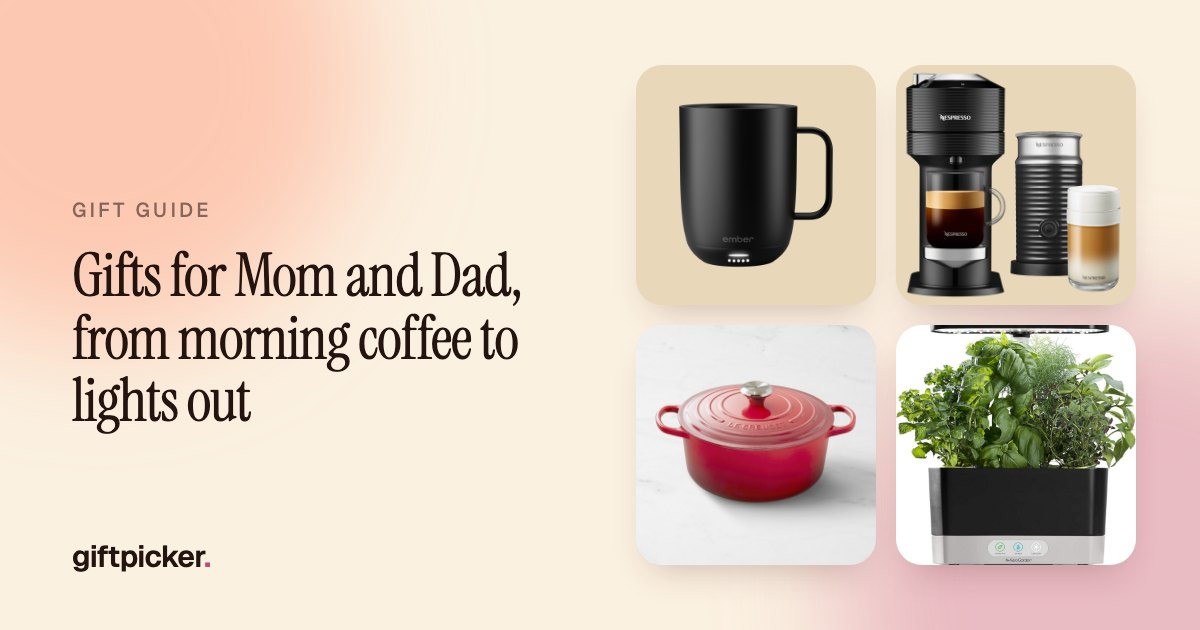
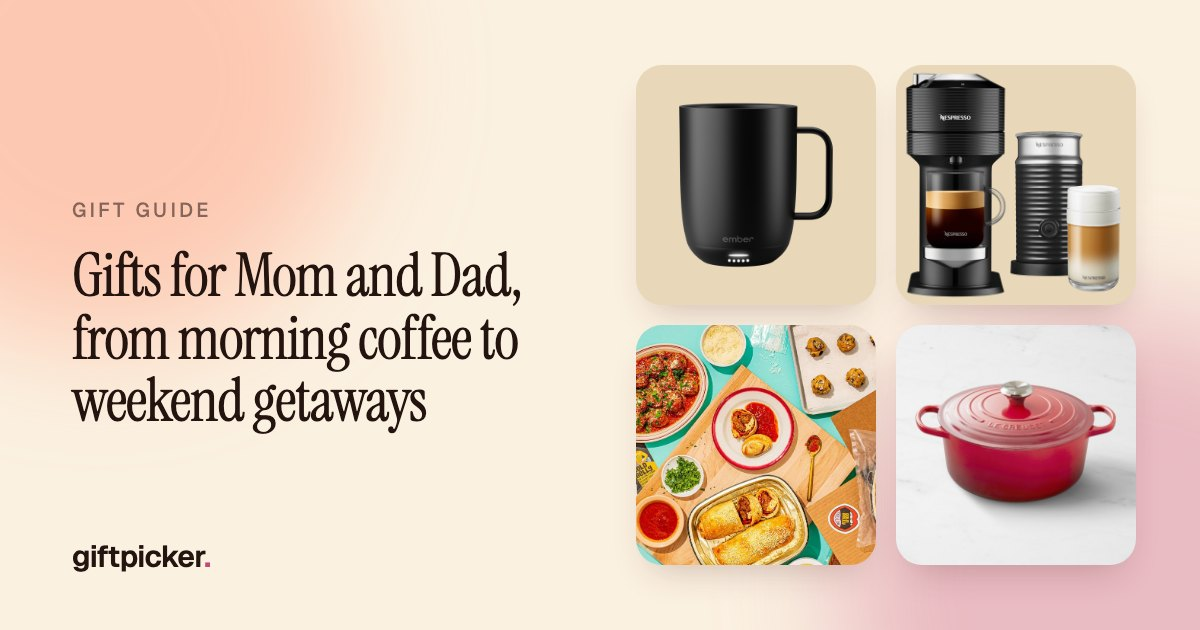
Blog round 5: Dalia's Roomba aside in the love-language post; the partner post links Melting Pot again, adds a Sur La Table cooking class, and moves the balloon ride into a new big-gesture section with Flytographer and CityPASS; the parents post adds the National Parks passport book and ResortPass t

Changed region(s): [[0.5242, 0.5127, 0.9558, 0.9048], [0.0617, 0.6032, 0.37, 0.6937]]

diff --git a/src/data/posts.ts b/src/data/posts.ts
@@ -225,7 +225,7 @@ const ALL_POSTS: Post[] = [
       },
       {
         kind: "p",
-        text: "A [Roomba robot vacuum](gift:r256) maps the house and empties its own bin for up to 60 days, which removes one weekly chore for good. An [Instacart gift card](gift:r768) covers groceries, delivery fees, and tips, and it pairs well with an offer to do the ordering yourself. If they are the one who keeps the household schedule in their head, the [Skylight Calendar 2](gift:r953) brings everyone's Google, Outlook, and Apple calendars onto one 15-inch touchscreen, with chore lists built in.",
+        text: "A [Roomba robot vacuum](gift:r256) maps the house and empties its own bin for up to 60 days, which removes one weekly chore for good (my mom still says this is the best gift we ever bought her). An [Instacart gift card](gift:r768) covers groceries, delivery fees, and tips, and it pairs well with an offer to do the ordering yourself. If they are the one who keeps the household schedule in their head, the [Skylight Calendar 2](gift:r953) brings everyone's Google, Outlook, and Apple calendars onto one 15-inch touchscreen, with chore lists built in.",
       },
       { kind: "gifts", ids: ["r256", "r768", "r953"] },
 
@@ -247,15 +247,15 @@ const ALL_POSTS: Post[] = [
       { kind: "h2", text: "For receiving gifts: something chosen with care" },
       {
         kind: "p",
-        text: "People who love receiving gifts value the evidence that you were paying attention, so the story behind an object matters as much as the object itself.",
+        text: "People who love receiving gifts value the evidence that you were paying attention. For them, the story of why you picked something is a big part of the present.",
       },
       {
         kind: "p",
-        text: "A [custom star map print](gift:r944) shows the sky over a chosen place and date, such as the night you met, along with a message of your own. The [solid walnut musical keepsake](gift:r706) is a palm-sized wind-up box that plays one tune you choose from hundreds. For someone who loves finding a package on the doorstep, a [Book of the Month membership](gift:r615) lets them pick a new hardcover or audiobook each month, so the gift keeps arriving long after the occasion.",
+        text: "A [custom star map print](gift:r944) shows the sky over a chosen place and date, such as the night you met, along with a message of your own. The [solid walnut musical keepsake](gift:r706) is a palm-sized wind-up box that plays one tune you choose from hundreds. For someone who loves finding a package on the doorstep, a [Book of the Month membership](gift:r615) lets them pick a new hardcover or audiobook each month, so a new one keeps arriving after the occasion is over.",
       },
       {
         kind: "p",
-        text: "Jewelry with a message works the same way: Little Words Project's [custom word bracelet](gift:r929) spells out any word or name you choose in handmade beads, so it carries something only the two of you understand. And if they love to browse, a gift card to their favorite store, like Sephora for the beauty lover, turns into a small shopping spree they get to plan themselves.",
+        text: "Jewelry can carry a message too. Little Words Project's [custom word bracelet](gift:r929) spells out any word or name you choose in handmade beads, so you can pick one that means something to the two of you. And if they love to browse, a gift card to their favorite store, like Sephora for the beauty lover, turns into a small shopping spree they get to plan themselves.",
       },
       { kind: "gifts", ids: ["r944", "r706", "r615", "r929"] },
 
@@ -284,7 +284,7 @@ const ALL_POSTS: Post[] = [
     updated: REVISED,
     intro: [
       "Ask some men what they want and the answer never changes: nothing, really. Sometimes that is modesty, and sometimes it is true in a narrow sense, because he already owns a wallet, a watch, and more gadgets than he uses. Either way, it leaves you guessing.",
-      "It helps to stop hunting for a missing object. The four approaches below work for a partner, a dad, a brother, or a friend, and each one gets around the problem of buying something he already has.",
+      "It helps to stop hunting for a missing object. The approaches below work for a partner, a dad, a brother, or a friend, and each one gets around the problem of buying something he already has.",
     ],
     body: [
       { kind: "h2", text: "Give him an experience" },
@@ -294,11 +294,7 @@ const ALL_POSTS: Post[] = [
       },
       {
         kind: "p",
-        text: "An [Xtreme Xperience gift card](gift:r832) goes toward driving a supercar on a real racetrack, from a Lamborghini or Ferrari to a Porsche GT3, with a professional coach in the passenger seat. Events run at more than 40 tracks across the US, so check the schedule near him first. If he follows a team, [tickets to their game](gift:r1073) are easy to find by team and date on StubHub, and the seat details fit neatly in a card. For someone curious about golf, an [intro lesson at Five Iron Golf](gift:r1053), an indoor golf club in 26 US cities, covers grip, stance, and ball position on a Trackman simulator, with video of his swing.",
-      },
-      {
-        kind: "p",
-        text: "For a film buff, the [Kodak Luma 75 pocket projector](gift:r242) plays HD video on a picture that stretches up to 100 inches, so movie night can happen on any wall or out in the backyard.",
+        text: "An [Xtreme Xperience gift card](gift:r832) goes toward driving a supercar on a real racetrack, from a Lamborghini or Ferrari to a Porsche GT3, with a professional coach in the passenger seat. Events run at more than 40 tracks across the US, so check the schedule near him first. If he follows a team, [tickets to their game](gift:r1073) are easy to find by team and date on StubHub, and the seat details fit neatly in a card. For someone curious about golf, an [intro lesson at Five Iron Golf](gift:r1053), an indoor golf club in 26 US cities, covers grip, stance, and ball position on a Trackman simulator, with video of his swing. For a film buff, a backyard movie night counts too, and the [Kodak Luma 75 pocket projector](gift:r242) plays HD video on a picture that stretches up to 100 inches on any wall.",
       },
       { kind: "gifts", ids: ["r832", "r1073", "r1053", "r242"] },
 
@@ -365,7 +361,7 @@ const ALL_POSTS: Post[] = [
     published: "2026-08-05",
     updated: REVISED,
     intro: [
-      "Most workplace gift questions come down to two things: who the gift is from and how big the moment is. A birthday treat from the person at the next desk calls for something different from a farewell collection taken up by a whole department, and the budget follows from there.",
+      "Most workplace gift questions depend on who the gift is from and how big the moment is. A birthday treat from the person at the next desk calls for something different from a farewell collection taken up by a whole department, and the budget follows from there.",
       "This guide is organized by price. Each tier lists the occasions it usually fits, along with gifts from our catalog that suit a work relationship, meaning friendly and thoughtful without being too personal.",
     ],
     body: [
@@ -403,7 +399,7 @@ const ALL_POSTS: Post[] = [
       },
       {
         kind: "p",
-        text: "Chasing Threads' [Stitch Your Own Tea Towel kit](gift:r1027) is a white tea towel printed with nine gold cocktail drawings to fill in with colored embroidery, with thread, a needle, and video lessons for a beginner. A [Candlelight concert gift card](gift:r700) from Fever pays for a string quartet or pianist playing classical pieces and pop tributes in a venue lit by thousands of candles, which makes a lovely thank-you for someone who went above and beyond. For the tea drinker, Tea Forté's [Frank Lloyd Wright Terra Teapot](gift:r1049) is a 20-ounce stoneware pot etched with an original Wright pattern, with an infuser that brews loose tea for two.",
+        text: "Chasing Threads' [Stitch Your Own Tea Towel kit](gift:r1027) is a white tea towel printed with nine gold cocktail drawings to fill in with colored embroidery, with thread, a needle, and video lessons for a beginner. A [Candlelight concert gift card](gift:r700) from Fever pays for a string quartet or pianist playing classical pieces and pop tributes in a venue lit by thousands of candles, which makes a generous thank-you after a hard stretch of work. For the tea drinker, Tea Forté's [Frank Lloyd Wright Terra Teapot](gift:r1049) is a 20-ounce stoneware pot etched with an original Wright pattern, with an infuser that brews loose tea for two.",
       },
       { kind: "gifts", ids: ["r1027", "r700", "r1049"] },
 
@@ -414,7 +410,7 @@ const ALL_POSTS: Post[] = [
       },
       {
         kind: "p",
-        text: "For a promotion or a new role, a year of [MasterClass](gift:r362) gives them online classes from experts across every field, a good fit for someone who loves to learn. Smythson's [Panama weekly journal](gift:r662) is the pocket diary the London stationer introduced in 1908, bound in navy lambskin with week-to-view pages for the year ahead, a polished way to start a new job.",
+        text: "For a promotion or a new role, a year of [MasterClass](gift:r362) gives someone who loves to learn online classes from experts across every field. Smythson's [Panama weekly journal](gift:r662) is the pocket diary the London stationer introduced in 1908, bound in navy lambskin with week-to-view pages for the year ahead in the new job.",
       },
       { kind: "gifts", ids: ["r362", "r662"] },
       {
@@ -428,19 +424,19 @@ const ALL_POSTS: Post[] = [
       { kind: "gifts", ids: ["r135"] },
       {
         kind: "p",
-        text: "For a farewell, help them hold on to the good memories and rest up before the next chapter. The Fujifilm [smartphone photo printer](gift:r274) prints credit-card-size photos from a phone in seconds, which comes in handy at the goodbye party and on whatever comes next. A [ResortPass gift card](gift:r1005) books a day at one of more than 2,700 hotel pools and spas, so they can take a real break between jobs.",
+        text: "For a farewell, pick something they can use at the send-off or during the break before the new job. The Fujifilm [smartphone photo printer](gift:r274) prints credit-card-size photos from a phone in seconds, which comes in handy at the goodbye party and afterward. A [ResortPass gift card](gift:r1005) books a day at one of more than 2,700 hotel pools and spas, so they can take a real break between jobs.",
       },
       { kind: "gifts", ids: ["r274", "r1005"] },
       {
         kind: "p",
-        text: "When a colleague is going through a hard time, a care package is a quiet way to show up for them. Spoonful of Comfort's [care package](gift:r600) brings two quarts of soup, six rolls, six cookies, a keepsake ladle, and a card with your message, and the [Serenity Gift Box](gift:r263) from Loved and Found gathers natural spa products for a slow evening at home. For a coworker who has lost someone, [It's OK That You're Not OK](gift:r772) by psychotherapist Megan Devine speaks to grieving people directly, with practical help for the hardest weeks.",
+        text: "When a colleague is going through a hard time, send a care package. Spoonful of Comfort's [care package](gift:r600) brings two quarts of soup, six rolls, six cookies, a keepsake ladle, and a card with your message, and the [Serenity Gift Box](gift:r263) from Loved and Found gathers natural spa products for a slow evening at home. For a coworker who has lost someone, [It's OK That You're Not OK](gift:r772) by psychotherapist Megan Devine speaks to grieving people directly, with practical help for the hardest weeks.",
       },
       { kind: "gifts", ids: ["r600", "r263", "r772"] },
 
       { kind: "h2", text: "$150 and up: a gift from the whole team" },
       {
         kind: "p",
-        text: "Big collections usually mark big moments, so spend the money on something the person would hesitate to buy for themselves.",
+        text: "With the whole team chipping in, you can afford something the person would hesitate to buy for themselves.",
       },
       {
         kind: "p",
@@ -454,7 +450,7 @@ const ALL_POSTS: Post[] = [
       { kind: "gifts", ids: ["r571", "r309", "r1092"] },
       {
         kind: "p",
-        text: "For a milestone birthday or a big promotion, a splurge from the team goes a long way. Sony's [WH-1000XM6 headphones](gift:r596) block out a noisy office with adaptive noise canceling and up to 30 hours of battery. Plant lovers will be thrilled with The Sill's [Best Sellers Duo](gift:r598), a monstera and a snake plant that arrive potted in ceramic planters. And for the coworker who spends weekends outdoors, the [GoPro HERO12 Black](gift:r369) is a rugged, waterproof action camera that records stabilized video of every hike, ride, and trip.",
+        text: "For a milestone birthday or a big promotion, pool the money for a splurge. Sony's [WH-1000XM6 headphones](gift:r596) block out a noisy office with adaptive noise canceling and up to 30 hours of battery. For a plant lover, The Sill's [Best Sellers Duo](gift:r598) sends a monstera and a snake plant already potted in ceramic planters. And for the coworker who spends weekends outdoors, the [GoPro HERO12 Black](gift:r369) is a rugged, waterproof action camera that records stabilized video on hikes and rides.",
       },
       { kind: "gifts", ids: ["r596", "r598", "r369"] },
       {
@@ -488,18 +484,18 @@ const ALL_POSTS: Post[] = [
     published: "2026-08-19",
     updated: REVISED,
     intro: [
-      "Nobody knows you quite like a sibling, which makes shopping for one oddly hard. You know their taste better than almost anyone, and you also know they will tell you exactly what they think of whatever you pick.",
-      "Whether yours is the oldest, the youngest, or somewhere in the middle, the ideas below are sorted by the kind of sibling they are. A few are meant to be shared, since the best part of having a brother or sister is the time you spend together.",
+      "Shopping for a sibling is oddly hard. You know their taste better than almost anyone, and you also know they will tell you exactly what they think of whatever you pick.",
+      "The ideas below are sorted by the kind of sibling they are. A few are meant to be shared, so you can use them together.",
     ],
     body: [
       { kind: "h2", text: "For the sibling who turns every holiday into game night" },
       {
         kind: "p",
-        text: "Every family has one: the sibling who pulls out a game the minute dessert is over and still remembers who won last year.",
+        text: "This is the sibling who pulls out a game the minute dessert is over and still remembers who won last year.",
       },
       {
         kind: "p",
-        text: "[Wavelength](gift:r852) is a team party game for 2 to 12 players in which one person gives a clue on a spectrum, like hot to cold, and teammates turn a dial to find the hidden target. The rounds are quick and the debates get loud. [Hitster](gift:r877) is a music game for mixed ages: you scan a song card with your phone, hear the track, and place it on your timeline by release year, with more than 300 songs spanning a century. For a head-to-head rivalry, [KLASK](gift:r509) is a Danish wooden tabletop game that plays like a mix of air hockey and foosball, with magnetic strikers and ten-minute matches.",
+        text: "[Wavelength](gift:r852) is a team party game for 2 to 12 players in which one person gives a clue on a spectrum, like hot to cold, and teammates turn a dial to find the hidden target. Rounds are short, and teams tend to argue over every clue. [Hitster](gift:r877) is a music game for mixed ages: you scan a song card with your phone, hear the track, and place it on your timeline by release year, with more than 300 songs spanning a century. For a head-to-head rivalry, [KLASK](gift:r509) is a Danish wooden tabletop game that plays like a mix of air hockey and foosball, with magnetic strikers and ten-minute matches.",
       },
       { kind: "gifts", ids: ["r852", "r877", "r509"] },
 
@@ -539,7 +535,7 @@ const ALL_POSTS: Post[] = [
       },
       {
         kind: "p",
-        text: "The [RetroViewer with a custom photo reel](gift:r733) pairs a classic stereo viewer with a reel of seven of your own photos, made by a company founded by a former View-Master employee. Shutterfly's [custom photo playing cards](gift:r992) put a family picture on the back of every card, which makes the next card game at the holidays a lot more personal. For the full archive, Artifact Uprising's [hardcover photo book](gift:r637) is fabric-bound and holds up to 200 pictures, enough for every bad haircut and school portrait.",
+        text: "The [RetroViewer with a custom photo reel](gift:r733) pairs a classic stereo viewer with a reel of seven of your own photos, made by a company founded by a former View-Master employee. Shutterfly's [custom photo playing cards](gift:r992) put a family picture on the back of every card, ready for the next card game at the holidays. For the full archive, Artifact Uprising's [hardcover photo book](gift:r637) is fabric-bound and holds up to 200 pictures, enough for every bad haircut and school portrait.",
       },
       { kind: "gifts", ids: ["r733", "r992", "r637"] },
       {
@@ -550,7 +546,7 @@ const ALL_POSTS: Post[] = [
       { kind: "h2", text: "For the sibling you don't see enough" },
       {
         kind: "p",
-        text: "When life has spread you across different cities or different schedules, the best gift might be a plan. [Concert tickets](gift:r1072) to see their favorite artist put a date on the calendar, and Bandsintown makes it easy to find a show near them and buy from the official seller. A [Hipcamp gift card](gift:r680) pays for a campsite, cabin, or treehouse on private land near parks, lakes, and beaches, so you can plan a weekend away together. For an afternoon closer to home, a [Topgolf gift card](gift:r994) covers play, food, and drinks at Topgolf venues across the US; check that there is one near them first.",
+        text: "If you live in different cities or keep different schedules, a plan to see each other can be the gift. [Concert tickets](gift:r1072) to see their favorite artist put a date on the calendar, and Bandsintown makes it easy to find a show near them and buy from the official seller. A [Hipcamp gift card](gift:r680) pays for a campsite, cabin, or treehouse on private land near parks, lakes, and beaches, so you can plan a weekend away together. For an afternoon closer to home, a [Topgolf gift card](gift:r994) covers play, food, and drinks at Topgolf venues across the US; check that there is one near them first.",
       },
       { kind: "gifts", ids: ["r1072", "r680", "r994"] },
       {
@@ -571,8 +567,8 @@ const ALL_POSTS: Post[] = [
     published: "2026-07-22",
     updated: REVISED,
     intro: [
-      "When someone you care about is ill, recovering from surgery, or grieving, it is natural to want to do something, and just as natural to worry about getting it wrong. A good gift in these moments is easy to receive. It asks nothing of them, needs no thank-you note, and fits what they are actually going through.",
-      "The ideas below work for a friend, a relative, or a colleague, and they are grouped by situation, with a few practical checks first, some ways to help that cost nothing, and help with the card at the end.",
+      "When someone you care about is ill, recovering from surgery, or grieving, most of us want to do something and also worry about getting it wrong. Look for something they can simply accept. It shouldn't need a thank-you note or any effort from them, and it should fit what they are actually going through.",
+      "The ideas below work for a friend, a relative, or a colleague, and they are grouped by situation. Suggestions for the card are at the end.",
     ],
     body: [
       { kind: "h2", text: "Check a few things first" },
@@ -600,7 +596,7 @@ const ALL_POSTS: Post[] = [
       { kind: "h2", text: "If they're recovering at home: meals and treats" },
       {
         kind: "p",
-        text: "Someone resting at home after surgery or an illness usually needs two things: food they don't have to cook and comfortable ways to pass the time. Meals come first.",
+        text: "Someone resting at home after surgery or an illness usually needs food they don't have to cook and comfortable ways to pass the time, so start with meals.",
       },
       {
         kind: "p",
@@ -609,7 +605,7 @@ const ALL_POSTS: Post[] = [
       { kind: "gifts", ids: ["r768", "r135"] },
       {
         kind: "p",
-        text: "Then something sweet. Stonewall Kitchen's [Best of the Best Gift Basket](gift:r1093) packs twenty of its favorites, from Wild Maine Blueberry Jam to pancake mix and pasta sauce, into a reusable wicker basket, enough for easy breakfasts and dinners while they recover. For someone who eats keto or gluten-free, Wonder Monday's [keto cheesecakes](gift:r158) come in four flavors with zero grains or gluten. Sugarfina's [Champagne Bears](gift:r650) are gummies made with Dom Pérignon champagne that contain no alcohol, and Teaspressa's [Champagne Bellini Mixer Kit](gift:r1095) holds 18 handmade fruit cubes to drop into prosecco, or into sparkling water for a mocktail, on the day they feel like celebrating.",
+        text: "For treats and easy pantry meals, Stonewall Kitchen's [Best of the Best Gift Basket](gift:r1093) packs twenty of its favorites, from Wild Maine Blueberry Jam to pancake mix and pasta sauce, into a reusable wicker basket, enough for easy breakfasts and dinners while they recover. For someone who eats keto or gluten-free, Wonder Monday's [keto cheesecakes](gift:r158) come in four flavors with zero grains or gluten. Sugarfina's [Champagne Bears](gift:r650) are gummies made with Dom Pérignon champagne that contain no alcohol, and Teaspressa's [Champagne Bellini Mixer Kit](gift:r1095) holds 18 handmade fruit cubes to drop into prosecco, or into sparkling water for a mocktail, on the day they feel like celebrating.",
       },
       { kind: "gifts", ids: ["r1093", "r158", "r650", "r1095"] },
 
@@ -620,7 +616,7 @@ const ALL_POSTS: Post[] = [
       },
       {
         kind: "p",
-        text: "Thistle Farms' [essential oil roll-on set](gift:r801) has Calm, Balance, and Focus blends handcrafted by women survivors at the Nashville nonprofit, and the pocket-size rollers need no diffuser. The Qi's [Daily Ritual Flower Tea Set](gift:r612) comes with nine whole blooms and a glass cup for a caffeine-free moment of calm. The [Bearaby Snuggler](gift:r771) is a weighted, bottle-shaped pillow with a clay-based fill that warms in the microwave in about a minute and holds heat for up to an hour, so it can rest on the stomach, back, or lap.",
+        text: "Thistle Farms' [essential oil roll-on set](gift:r801) has Calm, Balance, and Focus blends handcrafted by women survivors at the Nashville nonprofit, and the pocket-size rollers need no diffuser. The Qi's [Daily Ritual Flower Tea Set](gift:r612) comes with nine whole blooms and a glass cup for brewing caffeine-free tea. The [Bearaby Snuggler](gift:r771) is a weighted, bottle-shaped pillow with a clay-based fill that warms in the microwave in about a minute and holds heat for up to an hour, so it can rest on the stomach, back, or lap.",
       },
       { kind: "gifts", ids: ["r801", "r612", "r771"] },
       {
@@ -632,16 +628,16 @@ const ALL_POSTS: Post[] = [
       { kind: "h2", text: "If it's a longer stretch of treatment" },
       {
         kind: "p",
-        text: "A long illness changes the kind of help that is useful. Gifts that keep working over weeks, or that brighten the room where someone spends most of their time, tend to mean more than one big gesture.",
+        text: "A long illness changes the kind of help that is useful. Look for gifts that keep working over weeks, or that brighten the room where someone spends most of their time.",
       },
       {
         kind: "p",
-        text: "Living plants bring some green to a room that hasn't seen much fresh air lately. The Sill's [Houseplant of the Month Club](gift:r1075) delivers a new plant in a ceramic planter every month, and its [Best Sellers Duo](gift:r598) sends a monstera and a snake plant at once. For someone who likes to grow their own, the self-watering [Click & Grow Smart Garden 3](gift:r613) grows herbs and greens on the counter under its own lights, and Truelove Seeds' [African Diaspora Collection](gift:r1097) pairs four heritage seed packets, including the Paul Robeson tomato, with illustrated postcards that tell each seed's story, something hopeful to plant next spring.",
+        text: "Living plants bring some green to a room that hasn't seen much fresh air lately. The Sill's [Houseplant of the Month Club](gift:r1075) delivers a new plant in a ceramic planter every month, and its [Best Sellers Duo](gift:r598) sends a monstera and a snake plant at once. For someone who likes to grow their own, the self-watering [Click & Grow Smart Garden 3](gift:r613) grows herbs and greens on the counter under its own lights, and Truelove Seeds' [African Diaspora Collection](gift:r1097) pairs four heritage seed packets, including the Paul Robeson tomato, with illustrated postcards that tell each seed's story, which gives them something to plant next spring.",
       },
       { kind: "gifts", ids: ["r1075", "r598", "r613", "r1097"] },
       {
         kind: "p",
-        text: "A favorite photo makes a thoughtful addition to their space. Framebridge's [custom framed photo](gift:r766) prints your picture, frames it behind a white mat, and ships it in a gift box with a personal note.",
+        text: "Framebridge's [custom framed photo](gift:r766) prints a favorite picture of yours, frames it behind a white mat, and ships it in a gift box with a personal note.",
       },
       { kind: "gifts", ids: ["r766"] },
 
@@ -670,13 +666,13 @@ const ALL_POSTS: Post[] = [
       { kind: "h2", text: "What to write in the card" },
       {
         kind: "p",
-        text: "Short and sincere works best. Acknowledge what happened, offer support without asking them to do anything, and leave out advice or comparisons with your own experience. A few starting points:",
+        text: "Keep it short and sincere. Acknowledge what happened, offer support without asking them to do anything, and leave out advice or comparisons with your own experience. A few starting points:",
       },
       {
         kind: "list",
         items: [
           "For an illness or recovery: “Thinking of you and hoping each day gets a little easier. I'll check in next week, and there's no need to reply.”",
-          "For a loss: “I'm so sorry about your mother. I'm thinking of you and your family.”",
+          "For a loss: “I'm so sorry for your loss. I'm thinking of you and your family.”",
           "For a pet: “I'm so sorry about Biscuit. I know how much he meant to you.”",
         ],
       },
@@ -690,16 +686,16 @@ const ALL_POSTS: Post[] = [
 
   {
     slug: "gifts-for-mom-and-dad-from-morning-to-night",
-    title: "Gifts for Mom and Dad, from morning coffee to lights out",
+    title: "Gifts for Mom and Dad, from morning coffee to weekend getaways",
     description:
-      "A short list of gifts for Mom and Dad: a better morning coffee, dinners with a night off, weekend trips, a way to stay close, and a family video montage.",
+      "A short list of gifts for Mom and Dad: a better morning coffee, dinners with a night off, weekend outings, and a video montage from the whole family.",
     metaTitle: "Thoughtful gifts for Mom and Dad · GiftPicker",
     related: ["gifts-for-men-who-say-they-dont-need-anything", "gifts-for-your-brother-or-sister", "how-to-choose-a-gift-by-love-language"],
     published: "2026-09-09",
     updated: REVISED,
     intro: [
       "Parents spend years looking after everyone else, then insist they don't need a thing when their own birthday comes around. Finding a gift that feels worthy of all that can be a lot of pressure.",
-      "It helps to picture an ordinary day in their house. Where do they start the morning, what is for dinner, and how do they wind down at night? The gifts below follow that day from the first cup of coffee to lights out. There are only a handful, each one chosen to make some part of the day a little nicer, and most are the kind of thing the whole family can chip in on.",
+      "Picture a regular week in their house. Where do they start the morning, what is for dinner, and what do they do on a free Saturday? The gifts below follow that week from the first cup of coffee to a weekend away. There are only a handful, and most are the kind of thing the whole family can chip in on.",
     ],
     body: [
       { kind: "h2", text: "For their morning coffee" },
@@ -712,28 +708,21 @@ const ALL_POSTS: Post[] = [
       { kind: "h2", text: "For dinner at home" },
       {
         kind: "p",
-        text: "Decades of cooking for the family earn a few nights off. Goldbelly's [monthly restaurant food box subscription](gift:r1091) sends famous dishes from restaurants and bakeries around the country, like pizza, barbecue, cakes, and pies, and each box serves at least four. For the nights they do cook, Le Creuset's [cast iron round oven](gift:r62) is the enameled Dutch oven that turns a Sunday roast or a pot of soup into a family tradition, and the [AeroGarden Harvest](gift:r368) grows fresh herbs and greens on the counter all year with no soil, so the basil is always a snip away.",
+        text: "If they have cooked for the family for decades, give them a few nights off. Goldbelly's [monthly restaurant food box subscription](gift:r1091) sends famous dishes from restaurants and bakeries around the country, like pizza, barbecue, cakes, and pies, and each box serves at least four. For the nights they do cook, Le Creuset's [cast iron round oven](gift:r62) is an enameled Dutch oven for a Sunday roast or a big pot of soup, and the [AeroGarden Harvest](gift:r368) grows fresh herbs and greens on the counter all year with no soil, so the basil is always a snip away.",
       },
       { kind: "gifts", ids: ["r1091", "r62", "r368"] },
 
       { kind: "h2", text: "For the weekends" },
       {
         kind: "p",
-        text: "Weekends are for getting out of the house. The [National Parks Annual Pass](gift:r201) covers entry to federal recreation lands for a full year and admits everyone in the car, so it works for a road trip with the grandkids too.",
+        text: "For parents who like to get out on weekends, the [National Parks Annual Pass](gift:r201) covers entry to federal recreation lands for a full year and admits everyone in the car, so it works for a road trip with the grandkids too. Pair it with the official [Passport To Your National Parks](gift:r887), a spiral-bound book for collecting free cancellation stamps at more than 400 park sites, so every visit becomes a dated keepsake. For a quieter weekend closer to home, a [ResortPass gift card](gift:r1005) books a day at a hotel pool or spa near them, with a cabana or a treatment if they like.",
       },
-      { kind: "gifts", ids: ["r201"] },
-
-      { kind: "h2", text: "For staying close at night" },
-      {
-        kind: "p",
-        text: "If you live far away, a pair of [Long Distance Friendship Lamps](gift:r173) lets you say goodnight without a phone call: touch yours, and theirs lights up with the same glow, wherever they are. It is a small, daily reminder that someone is thinking of them, and it works just as well for grandparents.",
-      },
-      { kind: "gifts", ids: ["r173"] },
+      { kind: "gifts", ids: ["r201", "r887", "r1005"] },
 
       { kind: "h2", text: "A video montage from the whole family" },
       {
         kind: "p",
-        text: "One of the gifts parents love most costs nothing but a little organizing: a short video of the people they love, each sharing a memory or a wish. It works for a milestone birthday, an anniversary, or a retirement, and it is something they will watch again and again.",
+        text: "One of the gifts parents love most costs nothing but a little organizing: a short video of the people they love, each sharing a memory or a wish. It works for a milestone birthday, an anniversary, or a retirement.",
       },
       {
         kind: "list",
@@ -753,7 +742,7 @@ const ALL_POSTS: Post[] = [
       },
       {
         kind: "p",
-        text: "If you live nearby, the best addition costs nothing. Show up one evening to cook dinner with them, using the herbs from the AeroGarden, and stay for dessert.",
+        text: "If you live nearby, add something free: show up one evening to cook dinner with them, and stay for dessert.",
       },
     ],
     cta: "Shopping for just one of them? Tell the quiz about Mom or Dad, their interests, and your budget, and it will rank gifts from our catalog.",
@@ -763,19 +752,19 @@ const ALL_POSTS: Post[] = [
     slug: "just-because-gifts-for-your-partner",
     title: "Just-because gifts for your partner",
     description:
-      "Surprise gifts for your partner for no reason at all: ideas for a night in, a night out, a little pampering, sentimental keepsakes, and small treats.",
+      "Surprise gifts for your partner for no reason at all: ideas for a night in, a night out, a big gesture, a little pampering, keepsakes, and small treats.",
     related: ["how-to-choose-a-gift-by-love-language", "gifts-for-your-brother-or-sister", "gifts-for-mom-and-dad-from-morning-to-night"],
     published: "2026-09-24",
     updated: REVISED,
     intro: [
-      "Birthdays and anniversaries come with a deadline, so those gifts tend to get planned. The surprises your partner remembers, though, are often the ones that show up on an ordinary Tuesday for no reason except that you were thinking of them.",
+      "Birthdays and anniversaries come with a deadline, so those gifts tend to get planned. A just-because gift can turn up on any weeknight, for no reason except that you were thinking of them, and that is often the one your partner remembers.",
       "Here are just-because gifts sorted by the kind of evening or mood they suit, plus a few ideas that cost nothing at all.",
     ],
     body: [
       { kind: "h2", text: "For a night in" },
       {
         kind: "p",
-        text: "Some of the best dates happen on the couch. [We're Not Really Strangers: Couples Edition](gift:r406) is a card game for two with 150 questions across three levels, written to help couples learn something new about each other. [The Fox in the Forest Duet](gift:r404) is a cooperative card game for exactly two players, in which you move through a storybook forest as a team without talking strategy.",
+        text: "[We're Not Really Strangers: Couples Edition](gift:r406) is a card game for two with 150 questions across three levels, written to help couples learn something new about each other. [The Fox in the Forest Duet](gift:r404) is a cooperative card game for exactly two players, in which you move through a storybook forest as a team without talking strategy.",
       },
       {
         kind: "p",
@@ -786,28 +775,35 @@ const ALL_POSTS: Post[] = [
       { kind: "h2", text: "For a night out" },
       {
         kind: "p",
-        text: "If your partner would rather do something than own something, plan the outing for them. A [Board & Brush gift card](gift:r1013) covers a workshop where an instructor guides you through staining and stenciling a wood sign or tray, and the studios are BYOB. Dinner at a fondue restaurant, such as The Melting Pot, turns a weeknight into a long evening of cheese fondue, a main course cooked at the table, and chocolate to finish. For a true surprise, a [sunrise hot air balloon ride](gift:r365) ends with a champagne toast. Check that the studio and the balloon flights are near them before you buy.",
+        text: "Book the whole evening yourself and tell them only what time to be ready. A [Board & Brush gift card](gift:r1013) covers a workshop where an instructor guides you through staining and stenciling a wood sign or tray, and the studios are BYOB. A [Melting Pot gift card](gift:r1012) turns a weeknight into a long dinner of cheese fondue, a main course cooked at the table, and chocolate to finish. Or book a [Sur La Table cooking class](gift:r363), where a chef walks the two of you through a new menu in a real kitchen. All three have locations around the country, so check for one near you first.",
       },
-      { kind: "gifts", ids: ["r1013", "r365"] },
+      { kind: "gifts", ids: ["r1013", "r1012", "r363"] },
+
+      { kind: "h2", text: "For a big gesture or a weekend away" },
+      {
+        kind: "p",
+        text: "A [sunrise hot air balloon ride](gift:r365) ends with a champagne toast. If a trip is already on the calendar, a [Flytographer session](gift:r123) books a local photographer for a private shoot wherever you are traveling, so you finally come home with photos of the two of you together. And for a weekend you decide on at the last minute, a [CityPASS](gift:r1052) bundles tickets to three to five top museums, aquariums, and landmarks in one of more than a dozen US cities. Balloon flights and CityPASS both depend on location, so look up the launch sites and the city list before you book.",
+      },
+      { kind: "gifts", ids: ["r365", "r123", "r1052"] },
 
       { kind: "h2", text: "For a little pampering" },
       {
         kind: "p",
-        text: "Treat the partner who never makes time for themselves. Olfactory NYC's [at-home custom scent experience](gift:r919) lets them sample scents at home, order blends of their favorites, and finish with a 50 ml bottle of their own fragrance with their name on the label. Mount Lai's [jade facial spa set](gift:r920) pairs a gua sha and a roller for a few calm minutes of facial massage, and the gua sha won a 2022 Allure Best of Beauty award. For a bath night, Herbivore's [Coco Milk bath soak](gift:r894) is a powdered coconut milk and vanilla soak that leaves skin soft. And after a long day at a screen, Hukka's [Orbits Eye Stones](gift:r893) are two rings of Finnish soapstone that hold the cold from the fridge and rest on tired eyes.",
+        text: "Treat the partner who never makes time for themselves. Olfactory NYC's [at-home custom scent experience](gift:r919) lets them sample scents at home, order blends of their favorites, and finish with a 50 ml bottle of their own fragrance with their name on the label. Mount Lai's [jade facial spa set](gift:r920) pairs a gua sha and a roller for a few calm minutes of facial massage, and the gua sha won a 2022 Allure Best of Beauty award. For a bath night, add Herbivore's [Coco Milk bath soak](gift:r894) to the water; the powdered coconut milk and vanilla leave skin soft. And after a long day at a screen, Hukka's [Orbits Eye Stones](gift:r893) are two rings of Finnish soapstone that hold the cold from the fridge and rest on tired eyes.",
       },
       { kind: "gifts", ids: ["r919", "r920", "r894", "r893"] },
 
       { kind: "h2", text: "For the sentimental one" },
       {
         kind: "p",
-        text: "The most sentimental gifts hold something only the two of you share. Patricia Carlin's [Intersection of Love print](gift:r731) is a black-and-white photo of two crossing street signs printed with your names and the years that matter to you. Liberty Puzzles turns a favorite photo of the two of you into a [custom wooden jigsaw](gift:r943) with whimsy pieces shaped like animals and objects, which doubles as a night-in project. And if they keep a drawer of old concert and team T-shirts they can't part with, a [Project Repat T-shirt quilt gift card](gift:r764) turns them into a fleece-backed quilt sewn in North Carolina.",
+        text: "Each of these is made from your own names, photos, or old T-shirts. Patricia Carlin's [Intersection of Love print](gift:r731) is a black-and-white photo of two crossing street signs printed with your names and the years that matter to you. Liberty Puzzles turns a favorite photo of the two of you into a [custom wooden jigsaw](gift:r943) with whimsy pieces shaped like animals and objects, which doubles as a night-in project. And if they keep a drawer of old concert and team T-shirts they can't part with, a [Project Repat T-shirt quilt gift card](gift:r764) turns them into a fleece-backed quilt sewn in North Carolina.",
       },
       { kind: "gifts", ids: ["r731", "r943", "r764"] },
 
       { kind: "h2", text: "Small surprises for an ordinary day" },
       {
         kind: "p",
-        text: "Not every just-because gift needs a big moment. Companion Candles' [Cuddle Me Cozy Candle](gift:r331) smells of fresh linen, clean cotton, and warm musk, and it is made to be pet-friendly. Runamok's [Sugarmaker's Cut maple syrup](gift:r421) is organic Vermont syrup from the season's best runs, in a heavy glass bottle that makes Saturday pancakes feel like an occasion. For the tea drinker, Tea Forté's [KATI steeping cup](gift:r651) is a double-walled ceramic tumbler with an infuser, so a good cup of loose tea is only a few minutes away.",
+        text: "If you share the couch with a dog or cat, try Companion Candles' [Cuddle Me Cozy Candle](gift:r331), which is made to be pet-friendly and smells of fresh linen, clean cotton, and warm musk. Runamok's [Sugarmaker's Cut maple syrup](gift:r421) is organic Vermont syrup from the season's best runs, in a heavy glass bottle that makes Saturday pancakes feel like an occasion. For the tea drinker, Tea Forté's [KATI steeping cup](gift:r651) is a double-walled ceramic tumbler with an infuser, so a good cup of loose tea is only a few minutes away.",
       },
       { kind: "gifts", ids: ["r331", "r421", "r651"] },
 
@@ -822,7 +818,7 @@ const ALL_POSTS: Post[] = [
       },
       {
         kind: "p",
-        text: "Whatever you choose, skip the big buildup. Leave it on the kitchen table or hand it over at the end of an ordinary day, with a line about why it made you think of them.",
+        text: "When you give it, skip the big buildup. Leave it on the kitchen table or hand it over at the end of a regular day, with a line about why it made you think of them.",
       },
     ],
     cta: "Want ideas matched to your partner's interests? Tell the quiz a little about them and your budget, and it will rank gifts from our catalog.",
